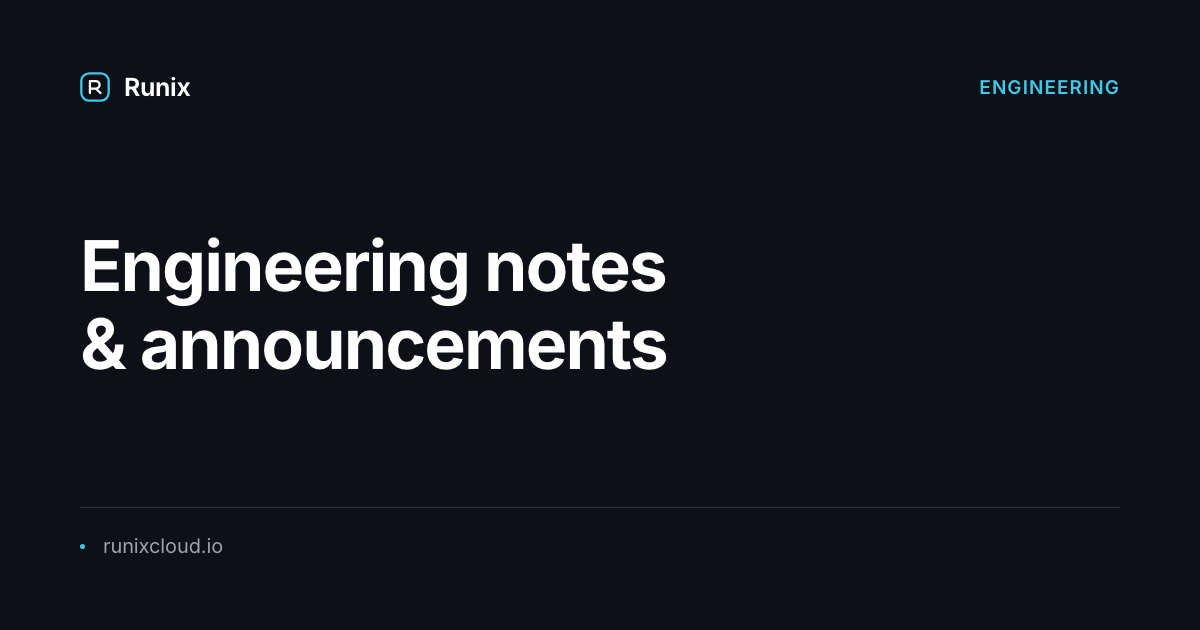
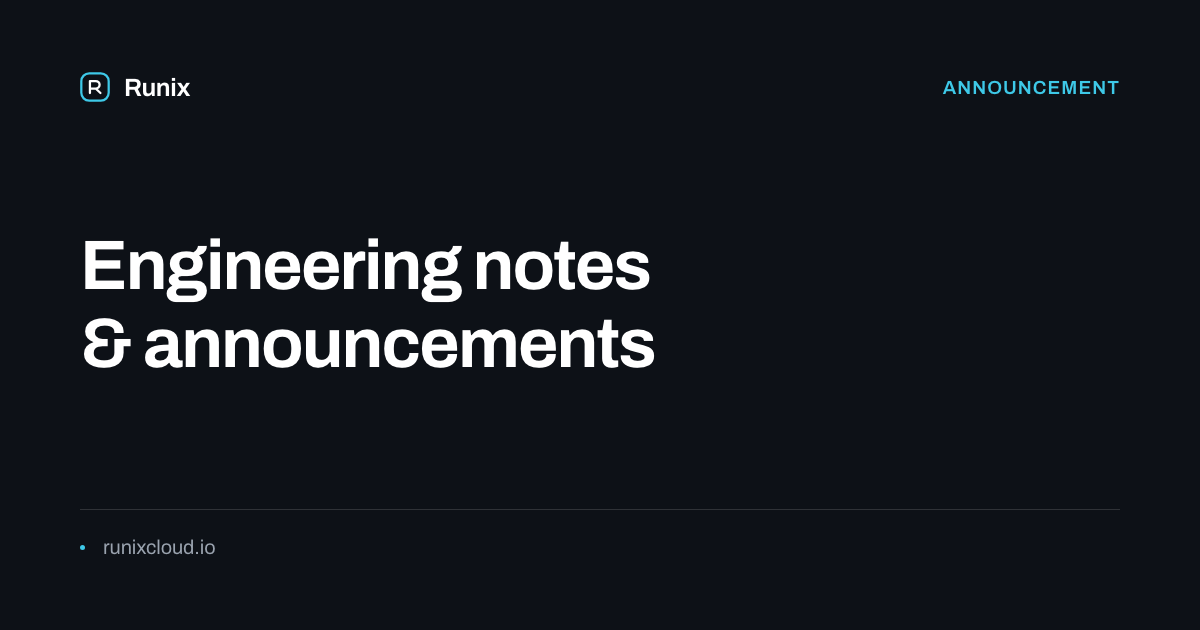
blog: Introducing Runix FS
Why the layer between the bucket and the GPU is missing, what Runix FS is
built on, and how early access works -- with every figure attributed to the
project or to AWS, and a section on what we will not claim.

diff --git a/blog/introducing-runix-fs.html b/blog/introducing-runix-fs.html
@@ -1,0 +1,228 @@
+<!DOCTYPE html>
+<html lang="en">
+<head>
+<!-- Google tag (gtag.js) -->
+<script async src="https://www.googletagmanager.com/gtag/js?id=G-4X1KF9Y1MW"></script>
+<script>
+  window.dataLayer = window.dataLayer || [];
+  function gtag(){dataLayer.push(arguments);}
+  gtag('js', new Date());
+
+  gtag('config', 'G-4X1KF9Y1MW');
+</script>
+<meta charset="UTF-8">
+<meta name="viewport" content="width=device-width, initial-scale=1.0">
+<title>Introducing Runix FS — An AI File System for Object Storage</title>
+<meta name="description" content="Runix FS puts a POSIX file system and a multi-tier cache in front of object storage. Why the layer is missing, what it is built on, and how early access works.">
+<meta property="og:title" content="Introducing Runix FS — An AI File System for Object Storage">
+<meta property="og:description" content="Runix FS puts a POSIX file system and a multi-tier cache in front of object storage. Why the layer is missing, what it is built on, and how early access works.">
+<meta property="og:type" content="article">
+<meta property="og:site_name" content="Runix">
+<meta property="og:image" content="https://runixcloud.io/assets/og/blog-introducing-runix-fs.png?v=d868b285">
+<meta property="og:image:width" content="1200">
+<meta property="og:image:height" content="630">
+<meta name="twitter:card" content="summary_large_image">
+<meta name="twitter:image" content="https://runixcloud.io/assets/og/blog-introducing-runix-fs.png?v=d868b285">
+<meta property="og:url" content="https://runixcloud.io/blog/introducing-runix-fs">
+<link rel="canonical" href="https://runixcloud.io/blog/introducing-runix-fs">
+<link rel="icon" href="../assets/favicon.svg?v=11" type="image/svg+xml">
+<link rel="preload" href="../assets/fonts/archivo-latin.woff2?v=2" as="font" type="font/woff2" crossorigin>
+<link rel="stylesheet" href="../assets/style.css?v=59">
+<script src="../assets/site-config.js?v=14" defer></script>
+<script type="application/ld+json">
+{
+  "@context": "https://schema.org",
+  "@type": "Article",
+  "headline": "Introducing Runix FS: an AI file system for object storage",
+  "description": "Runix FS puts a POSIX file system and a multi-tier cache in front of object storage. Why the layer is missing, what it is built on, and how early access works.",
+  "mainEntityOfPage": {
+    "@type": "WebPage",
+    "@id": "https://runixcloud.io/blog/introducing-runix-fs"
+  },
+  "image": "https://runixcloud.io/assets/og/blog-introducing-runix-fs.png?v=d868b285",
+  "author": {
+    "@id": "https://runixcloud.io/#org"
+  },
+  "publisher": {
+    "@id": "https://runixcloud.io/#org"
+  },
+  "datePublished": "2026-09-29",
+  "dateModified": "2026-09-29"
+}
+</script>
+<script type="application/ld+json">
+{
+  "@context": "https://schema.org",
+  "@type": "BreadcrumbList",
+  "itemListElement": [
+    {
+      "@type": "ListItem",
+      "position": 1,
+      "name": "Home",
+      "item": "https://runixcloud.io/"
+    },
+    {
+      "@type": "ListItem",
+      "position": 2,
+      "name": "Blog",
+      "item": "https://runixcloud.io/blog/"
+    },
+    {
+      "@type": "ListItem",
+      "position": 3,
+      "name": "Introducing Runix FS",
+      "item": "https://runixcloud.io/blog/introducing-runix-fs"
+    }
+  ]
+}
+</script>
+<meta property="og:locale" content="en_US">
+<meta name="twitter:title" content="Introducing Runix FS — An AI File System for Object Storage">
+<meta name="twitter:description" content="Runix FS puts a POSIX file system and a multi-tier cache in front of object storage. Why the layer is missing, what it is built on, and how early access works.">
+<meta property="article:published_time" content="2026-09-29">
+<meta property="article:modified_time" content="2026-09-29">
+<meta property="article:section" content="Announcement">
+<link rel="alternate" type="application/rss+xml" title="Runix Blog" href="https://runixcloud.io/feed.xml">
+<noscript><style>@media (max-width:920px){.nav{flex-wrap:wrap}.nav-links{display:flex!important;position:static;flex-direction:row;flex-wrap:wrap;background:none;padding:8px 0 0;border:none;gap:12px 18px;width:100%}.nav-toggle{display:none!important}.nav-panel{display:none!important}.nav-menu{width:auto}}</style></noscript>
+</head>
+<body>
+<a class="skip-link" href="#main">Skip to content</a>
+
+<header class="site-header">
+  <nav class="nav" aria-label="Primary">
+    <a class="brand" href="/"><span class="mark" aria-hidden="true">R</span>Runix</a>
+    <button class="nav-toggle" aria-label="Toggle menu" aria-expanded="false"><svg width="24" height="24" viewBox="0 0 24 24" fill="none" stroke="currentColor" stroke-width="2" stroke-linecap="round" aria-hidden="true"><path d="M3 6h18M3 12h18M3 18h18"/></svg></button>
+    <div class="nav-links">
+      <div class="nav-menu">
+        <a class="nav-menu-top" href="/#products">Products</a>
+        <div class="nav-panel">
+          <a class="nav-prod" href="/router"><b>Runix Router</b><span>One compliant endpoint for every model</span></a>
+          <a class="nav-prod" href="/fs"><b>Runix FS <i>New</i></b><span>AI-native file system on your object storage</span></a>
+          <a class="nav-prod" href="/pipeline"><b>Runix Pipeline</b><span>Raw material into model-ready data</span></a>
+          <a class="nav-prod" href="/code"><b>Runix Code</b><span>A reviewable AI agent in your repository</span></a>
+          <a class="nav-prod" href="/comic"><b>Runix Comic</b><span>Scripts into published episodes</span></a>
+          <a class="nav-prod" href="/#platform"><b>Platform overview</b><span>How the five products fit together</span></a>
+        </div>
+      </div>
+      <a href="/plans">Pricing</a>
+      <a href="/docs/">Docs</a>
+      <a href="/about">Company</a>
+      <a class="nav-signin" href="https://console.router.runixcloud.io" target="_blank" rel="noopener">Sign in</a>
+      <a class="nav-cta" href="/about#contact">Request access</a>
+    </div>
+  </nav>
+</header>
+
+<main id="main">
+
+<div class="page-hero">
+  <div class="container">
+    <div class="post-meta"><span class="cat">Announcement</span><span>September 29, 2026</span><span>·</span><span>5 min read</span></div>
+    <h1 style="margin-top: 14px;">Introducing Runix FS: an AI file system for object storage</h1>
+  </div>
+</div>
+
+<article class="article">
+
+<p>Today we are opening early access to <a href="/fs">Runix FS</a>, a POSIX file system and a multi-tier distributed cache that sits in front of the object storage a team already runs. Training jobs, inference servers and agents read the same data through a local path, and the bucket stays the durable copy. This post is about why we think that layer is missing from most AI stacks, what we are building it on, and what we will and will not claim about it.</p>
+
+<h2 id="the-gap">The gap between the bucket and the GPU</h2>
+
+<p>AI data ends up in object storage for good reasons: it is cheap, durable and effectively unlimited. It is also a poor file system. Listing a prefix with millions of objects is slow, opening a file is a network request, there is no atomic rename, and every read of a small file pays a full request's overhead. Training code, data loaders and most tools were written for files, not for objects.</p>
+
+<p>Teams paper over the gap in the same three ways. They copy the data to local disks before a job starts, and pay for it in start-up time and in a second copy to keep in sync. They attach block volumes, and run into per-node attachment limits long before a node runs out of CPU, which is exactly where an agent platform with one workspace per agent lives. Or they rewrite their I/O around an object SDK, and give up the tools that expect a path. Meanwhile the most expensive hardware in the cluster waits.</p>
+
+<h2 id="what-runix-fs-is">What Runix FS is</h2>
+
+<p>Runix FS keeps the bucket as the source of truth and puts two things in front of it. The first is a file system: masters hold the metadata and replicate it with Raft, and clients see an ordinary namespace through a FUSE mount, an S3-compatible gateway, an HDFS-compatible client or SDKs for Java, Python and Rust. The second is a cache: workers hold blocks in memory, SSD and HDD tiers, serve them directly to clients, and read from the bucket on a miss.</p>
+
+<p>Two properties matter more than any benchmark. File paths map one-to-one to object keys, so the data in your bucket keeps its original layout and stays readable by anything else, with or without the cluster running. And on Kubernetes, the CSI driver provisions a volume by creating a directory rather than calling a cloud API, so provisioning keeps up when thousands of pods start at once.</p>
+
+<h2 id="built-on-curvine">Built on Curvine</h2>
+
+<p>Runix FS is built on <a href="https://github.com/CurvineIO/curvine" rel="noopener">Curvine</a>, an open-source distributed file system and cache written in Rust, released under Apache 2.0 and accepted as a Cloud Native Computing Foundation Sandbox project. We chose to build on an open core rather than write our own for the reason buyers usually ask about first: if we disappear, your data does not, and neither does the software that reads it.</p>
+
+<p>The project has published evidence we can point to rather than restate as our own. AWS published a reference architecture for LLM inference on SageMaker HyperPod that uses Curvine as a shared KV-cache tier, and reported up to 2.7&times; faster time to first token at 2,500 tokens (<a href="https://aws.amazon.com/blogs/machine-learning/tiered-kv-cache-for-large-llms-on-amazon-sagemaker-hyperpod-with-curvine/" rel="noopener">the AWS post</a>). The project also provisioned 10,000 volumes for 10,000 agent pods on 99 EKS nodes, with a storage cluster of four pods (<a href="https://curvineio.github.io/blog/2026/07/07/ai-agent-storage-curvine-eks" rel="noopener">the write-up</a>).</p>
+
+<h2 id="what-we-will-not-claim">What we will not claim</h2>
+
+<p>The throughput and metadata figures on the product page are the Curvine project's own benchmark results, on its own hardware, and we label them that way. They are not a Runix service level, and there is no published availability number during early access. What a cache does for a given workload depends on the working set, the access pattern and the instances, so during early access we measure on yours before anyone signs anything.</p>
+
+<h2 id="how-early-access-works">How early access works</h2>
+
+<ul>
+<li><strong>Where it runs</strong>: in your own AWS, Google Cloud or Azure account, next to your GPUs and your bucket.</li>
+<li><strong>How it is deployed</strong>: we size the cluster with you, how much of the working set to cache and on which tiers, and deploy it together.</li>
+<li><strong>Who supports it</strong>: our team, with a reply within one business day, under a contract with Runix AI Inc, a US company.</li>
+<li><strong>What it costs</strong>: quoted per deployment during early access. An AWS Marketplace listing is in preparation; until then you contract with us directly.</li>
+</ul>
+
+<p>If you want to see the engine first, the <a href="/docs/fs">quick start</a> brings up a single-node cluster, attaches a bucket and mounts it in a few commands. If you would rather start from your workload, <a href="/about#contact">tell us where your data lives</a>, how big it is and what reads it.</p>
+
+<aside class="related" aria-labelledby="related-reading">
+  <h2 id="related-reading">Related reading</h2>
+  <ul>
+  <li><a href="/fs">Runix FS: capabilities, architecture and published figures</a></li>
+  <li><a href="/docs/fs">Runix FS quick start</a></li>
+  <li><a href="/blog/ai-data-pipelines">Building AI Data Pipelines: Raw to Model-Ready</a></li>
+  <li><a href="/blog/introducing-runix">Introducing Runix</a></li>
+  </ul>
+</aside>
+</article>
+
+</main>
+
+<footer class="site-footer">
+  <div class="container">
+    <div class="footer-grid footer-grid-4">
+      <div>
+        <a class="brand" href="/"><span class="mark" aria-hidden="true">R</span>Runix</a>
+        <p class="desc">The infrastructure layer for production AI: Runix Router, Runix FS, Runix Pipeline, Runix Code and Runix Comic.</p>
+      </div>
+      <div>
+        <p class="footer-heading">Product</p>
+        <a href="/router">Runix Router</a>
+        <a href="/fs">Runix FS</a>
+        <a href="/pipeline">Runix Pipeline</a>
+        <a href="/code">Runix Code</a>
+        <a href="/code-plans">Code plans</a>
+        <a href="/comic">Runix Comic</a>
+        <a href="/plans">Pricing</a>
+      </div>
+      <div>
+        <p class="footer-heading">Company</p>
+        <a href="/about">About</a>
+        <a href="/about#contact">Contact</a>
+        <a href="/security">Security</a>
+        <a href="/faq">FAQ</a>
+        <a href="/glossary">Glossary</a>
+        <a href="/access">Access</a>
+        <a href="/careers">Careers</a>
+        <a href="/blog/">Blog</a>
+      </div>
+      <div>
+        <p class="footer-heading">Legal</p>
+        <a href="/terms">Terms of Service</a>
+        <a href="/privacy">Privacy Policy</a>
+        <a href="/refund">Refund Policy</a>
+        <a href="/delivery">Shipping &amp; Delivery</a>
+        <a href="/cancellation">Cancellation Policy</a>
+        <a href="/acceptable-use">Acceptable Use</a>
+      </div>
+    </div>
+    <!--identity-->
+    <address class="footer-identity"><strong>Runix AI Inc</strong> &middot; Registered in Wyoming, United States &middot; Company No. 2026-002036618 &middot; 30 N Gould St Ste R, Sheridan, WY 82801, United States &middot; <a href="tel:+13086890770">+1 (308) 689-0770</a> &middot; <!--email_off--><a href="mailto:support@runixcloud.io">support@runixcloud.io</a><!--/email_off--></address>
+    <!--/identity-->
+    <div class="footer-bottom">
+      <span>&copy; 2026 <span data-cfg="legalCompanyName">Runix AI Inc</span></span>
+      <span>
+        <a href="/terms">Terms</a>
+        <a href="/privacy">Privacy</a>
+        <!--email_off--><a data-cfg-mail="supportEmail" href="mailto:support@runixcloud.io">support@runixcloud.io</a><!--/email_off--> <span aria-hidden="true">&middot;</span> <!--email_off--><a data-cfg-mail="contactEmail" href="mailto:contact@runixcloud.io">contact@runixcloud.io</a><!--/email_off-->
+      </span>
+    </div>
+  </div>
+</footer>
+
+</body>
+</html>

diff --git a/blog/index.html b/blog/index.html
@@ -18,11 +18,11 @@
 <meta property="og:description" content="Engineering notes on running LLMs in production: gateways, failover, retry budgets, token cost attribution, and AI data pipelines.">
 <meta property="og:type" content="website">
 <meta property="og:site_name" content="Runix">
-<meta property="og:image" content="https://runixcloud.io/assets/og/blog-index.png?v=370c4647">
+<meta property="og:image" content="https://runixcloud.io/assets/og/blog-index.png?v=6260a8a8">
 <meta property="og:image:width" content="1200">
 <meta property="og:image:height" content="630">
 <meta name="twitter:card" content="summary_large_image">
-<meta name="twitter:image" content="https://runixcloud.io/assets/og/blog-index.png?v=370c4647">
+<meta name="twitter:image" content="https://runixcloud.io/assets/og/blog-index.png?v=6260a8a8">
 <meta property="og:url" content="https://runixcloud.io/blog/">
 <link rel="canonical" href="https://runixcloud.io/blog/">
 <link rel="icon" href="../assets/favicon.svg?v=11" type="image/svg+xml">
@@ -219,9 +219,15 @@
     <div class="section-head center"><h2>All posts</h2></div>
       <div class="blog-list">
       <div class="card">
+        <div class="post-meta"><span class="cat">Announcement</span><span>September 29, 2026</span><span>·</span><span>5 min read</span></div>
+        <h3><a href="/blog/introducing-runix-fs">Introducing Runix FS: an AI file system for object storage</a></h3>
+        <p class="excerpt">Runix FS puts a POSIX file system and a multi-tier cache in front of object storage. Why the layer is missing, what it is built on, and how early access works.</p>
+        <a class="read-more" href="/blog/introducing-runix-fs" aria-hidden="true" tabindex="-1">Read post →</a>
+      </div>
+      <div class="card">
         <div class="post-meta"><span class="cat">Engineering</span><span>August 25, 2026</span><span>·</span><span>5 min read</span></div>
         <h3><a href="/blog/per-key-llm-quotas">One key can drain a shared quota pool</a></h3>
-        <p class="excerpt">A shared quota pool with no per-key ceiling is first-come-first-served: one client's batch job empties it. Why runway beats balance as an alert threshold.</p>
+        <p class="excerpt">A shared quota pool with no per-key ceiling is first-come-first-served — one client's batch job empties it. Why runway beats balance as an alert threshold.</p>
         <a class="read-more" href="/blog/per-key-llm-quotas" aria-hidden="true" tabindex="-1">Read post →</a>
       </div>
       <div class="card">
@@ -263,7 +269,7 @@
       <div class="card">
         <div class="post-meta"><span class="cat">Engineering</span><span>August 6, 2026</span><span>·</span><span>5 min read</span></div>
         <h3><a href="/blog/migrating-to-an-llm-gateway-without-downtime">Migrating to a gateway without a maintenance window</a></h3>
-        <p class="excerpt">Shadow, then a percentage, then a cutover you can reverse in one config change, and the three things about LLM traffic the usual playbook does not cover.</p>
+        <p class="excerpt">Shadow, then a percentage, then a cutover you can reverse in one config change — and the three things about LLM traffic the usual playbook does not cover.</p>
         <a class="read-more" href="/blog/migrating-to-an-llm-gateway-without-downtime" aria-hidden="true" tabindex="-1">Read post →</a>
       </div>
       <div class="card">
